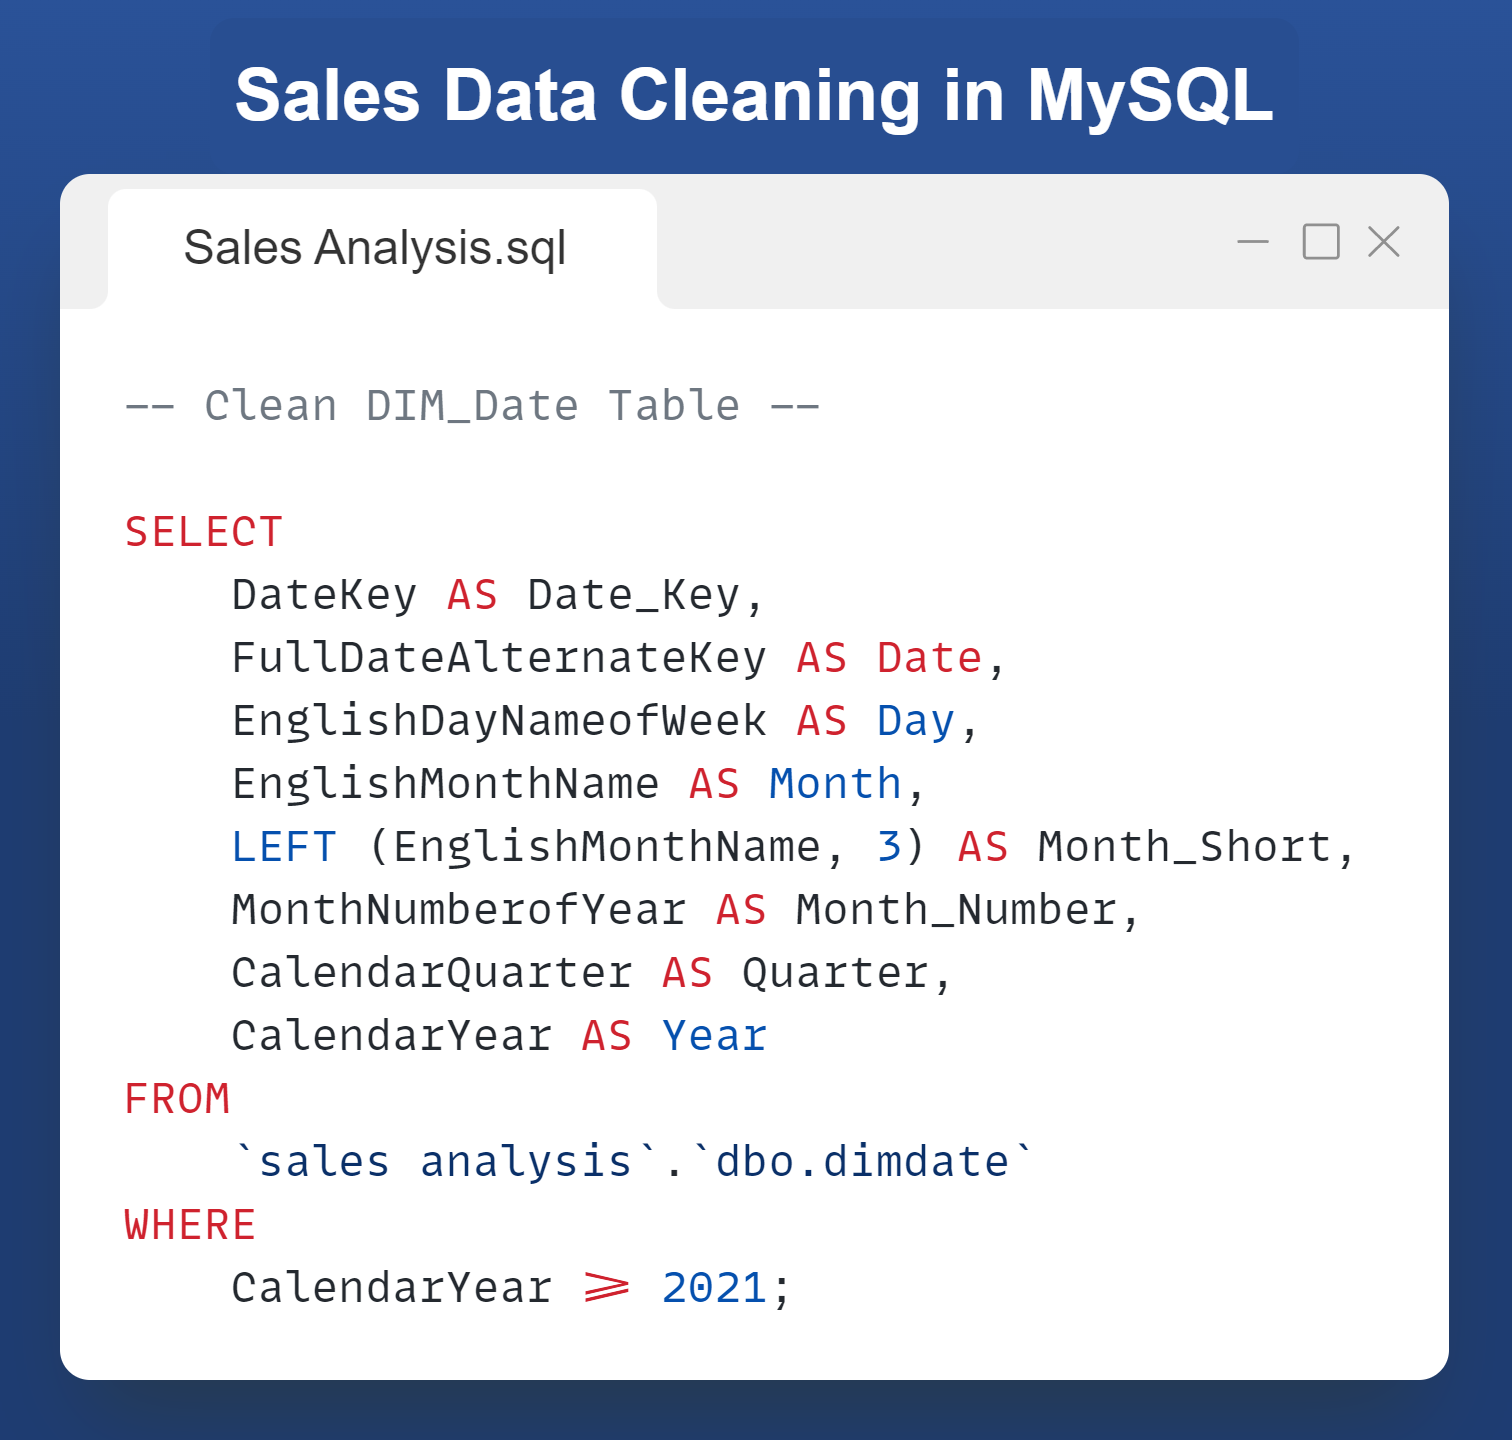
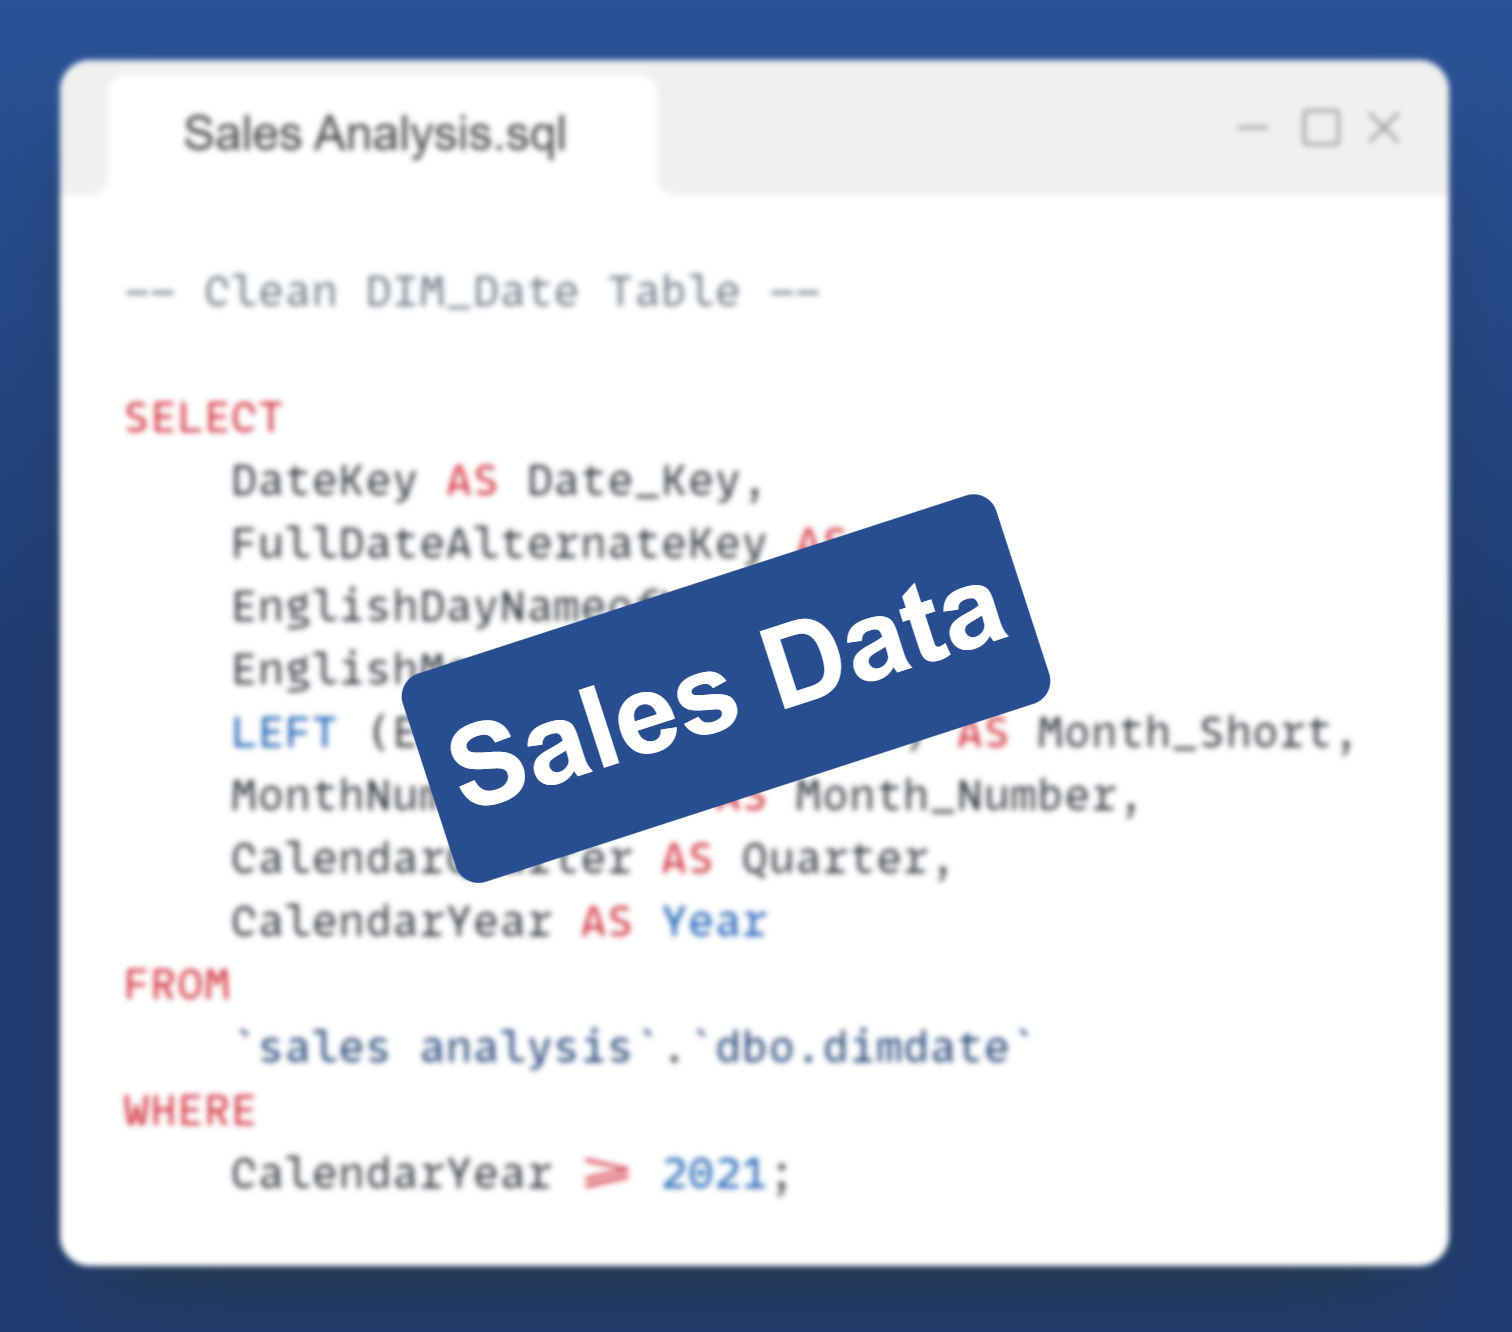
format changes

diff --git a/index.html b/index.html
@@ -25,7 +25,6 @@
 							<h3><strong>Excel</strong> | <strong>SQL</strong> | <strong>Power BI</strong> | <strong>Python</strong></h3>
 							<hr style="border-width: 2px;">
 							<p class="major">Aspiring data analyst with a passion for uncovering insights and making data-driven decisions. I am versed in Excel, SQL, and Power BI. I am continuously expanding my skillset, including self-directed study of Python, to enhance my abilities as a data professional.</p>
-							<br>
 							<ul class="icons">
                                 <li><a href="https://www.linkedin.com/in/faranak-zamani-28582483/" class="icon brands style2 fa-linkedin-in"><span class="label">LinkedIn</span></a></li>
                                 <li><a href="https://github.com/faranak-z" class="icon brands style2 fa-github"><span class="label">Github</span></a></li>
@@ -42,11 +41,11 @@
 						<div class="left">
 							<div class="items style3 big onload-fade-in"> 
 								<section>
-                                    <span class="image fit"><img src="images/Data Professional Survey1.jpg"></span>   
+                                    <span class="image fit"><img src="images/Data Professional Survey.jpg"></span>   
                                 </section>
 								<section>
 									<h3><strong>Power BI</strong></h3>
-									<p>A total of <strong>630 data professionals</strong> with an <strong>average age of 30</strong> participated in the survey.</p>  
+									A total of <strong>630 data professionals</strong> with an <strong>average age of 30</strong> participated in the survey.  
 									<strong>Key Takeaways: </strong>
 									<ul>
 										<li>Data Scientists earn the highest average salary of about $94,000</li>
@@ -68,8 +67,10 @@
 						<div class="left">
 							<div class="items style3 big onload-fade-in"> 
 								<section>
-									<h3><strong>SQL Data Cleaning</strong></h3> 
-									Skills Used:  
+									<h3><strong>Data Cleaning in MySQL</strong></h3> 
+									In this project I take raw sales data from the last 2 years and transform it using SQL queries.  
+									<br>
+									<strong>Skills Used: </strong>
 									<ul>
 									<li>'AS' keyword to create aliases</li>  
 									<li>WHERE clause</li>
@@ -80,7 +81,7 @@
 									</ul>
 								</section>
 								<section>
-									<span class="image fit"><img src="images/sql_script2.png"></span> 
+									<span class="image fit"><img src="images/sql_script.png"></span> 
 										<ul class="actions stacked">
 											<li><a href="#" class="button medium">View Complete Script</a></li>
 										</ul>  
@@ -152,7 +153,7 @@
 
 								<article>
 									<div class="image">
-                                        <img src="images/scale2.jpg" alt="" />
+                                        <img src="images/scale.jpg" alt="" />
                                     </div>
 									<div class="caption">
 										<h3><strong>BMI Calculator</strong></h3>
@@ -175,6 +176,7 @@
                                 <li><a href="https://github.com/faranak-z" class="icon brands style2 fa-github"><span class="label">Github</span></a></li>
                                 <li><a href="mailto:faranakz@vt.edu" class="icon style2 fa-envelope"><span class="label">Email</span></a></li>
 							</ul>
+							<br>
 							<p>&copy; Untitled. Design: <a href="https://html5up.net">HTML5 UP</a>.</p>
 						</div>
 					</footer>

diff --git a/assets/css/main.css b/assets/css/main.css
@@ -184,7 +184,7 @@ input, select, textarea {
 	}
 
 	p {
-		margin: 0 0 0.5rem 0;
+		margin: 0 0 2rem 0;
 	}
 
 		p.major {
